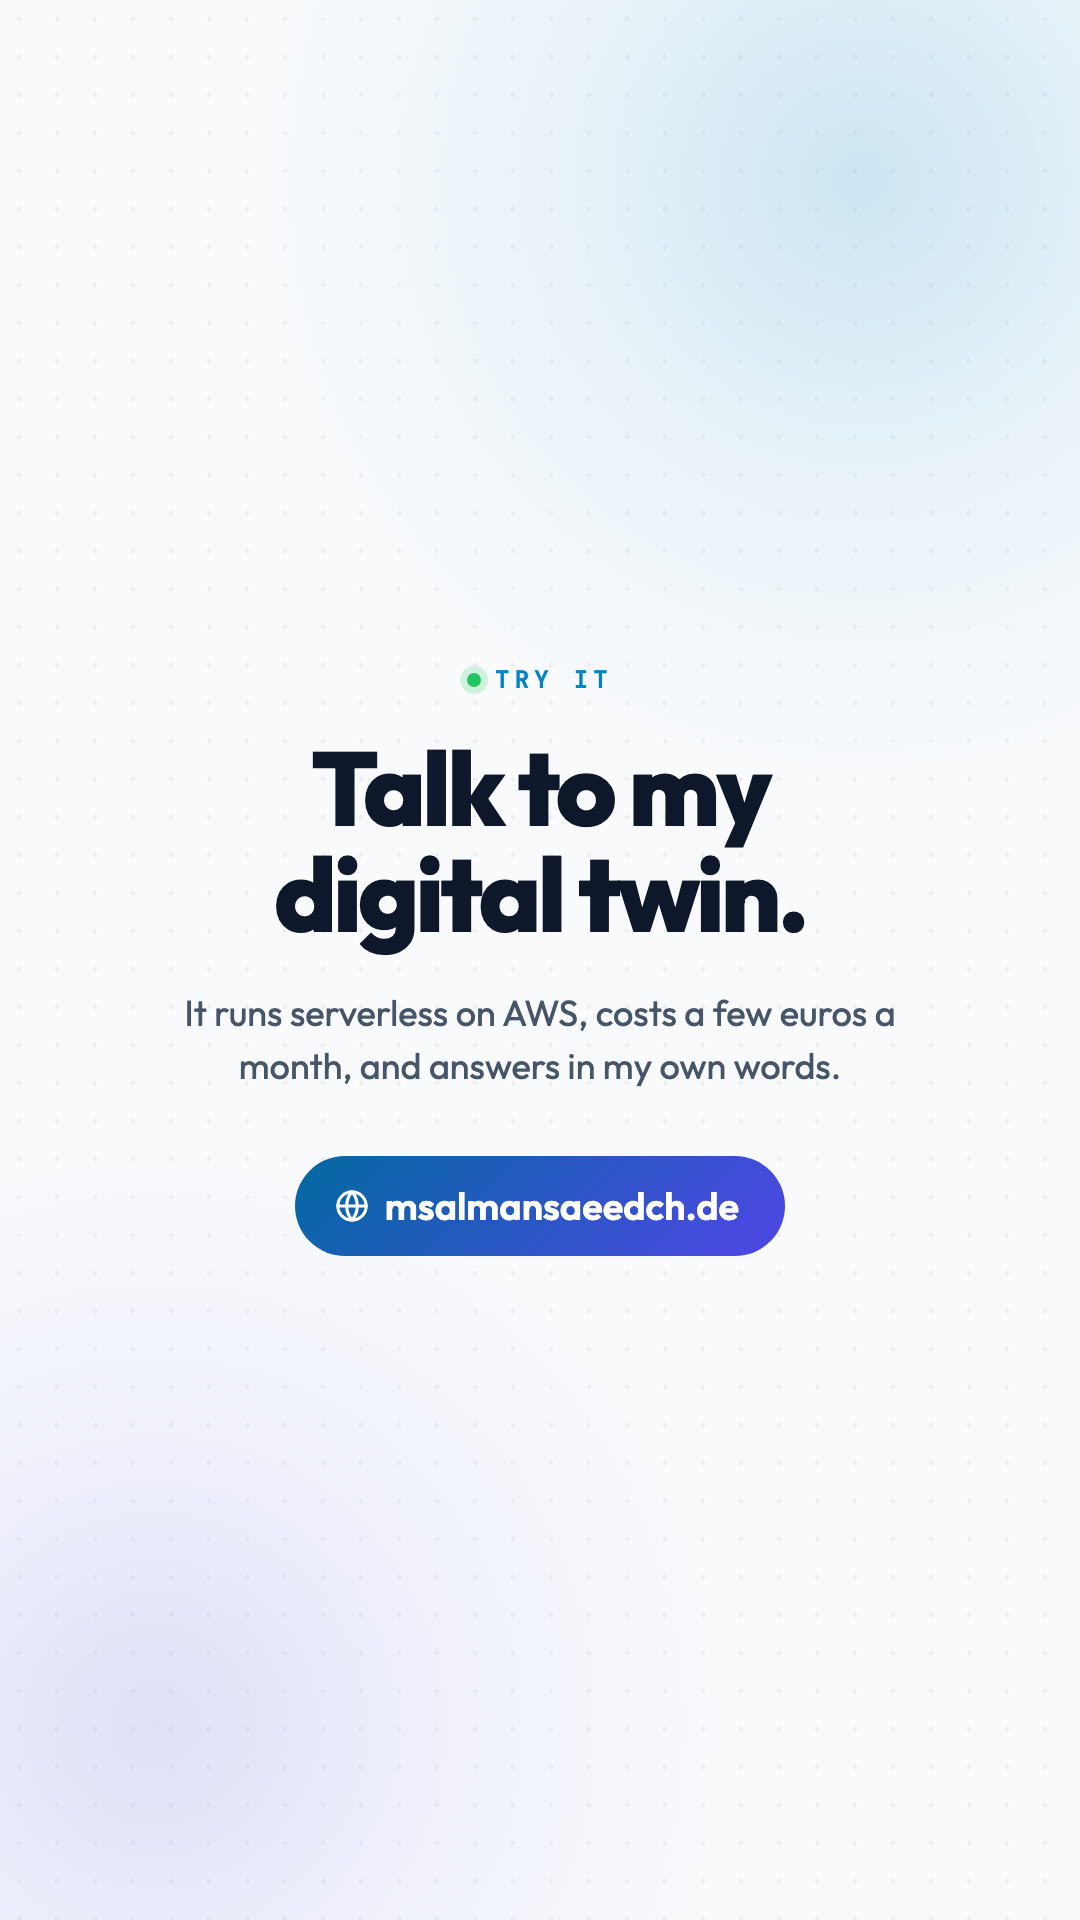
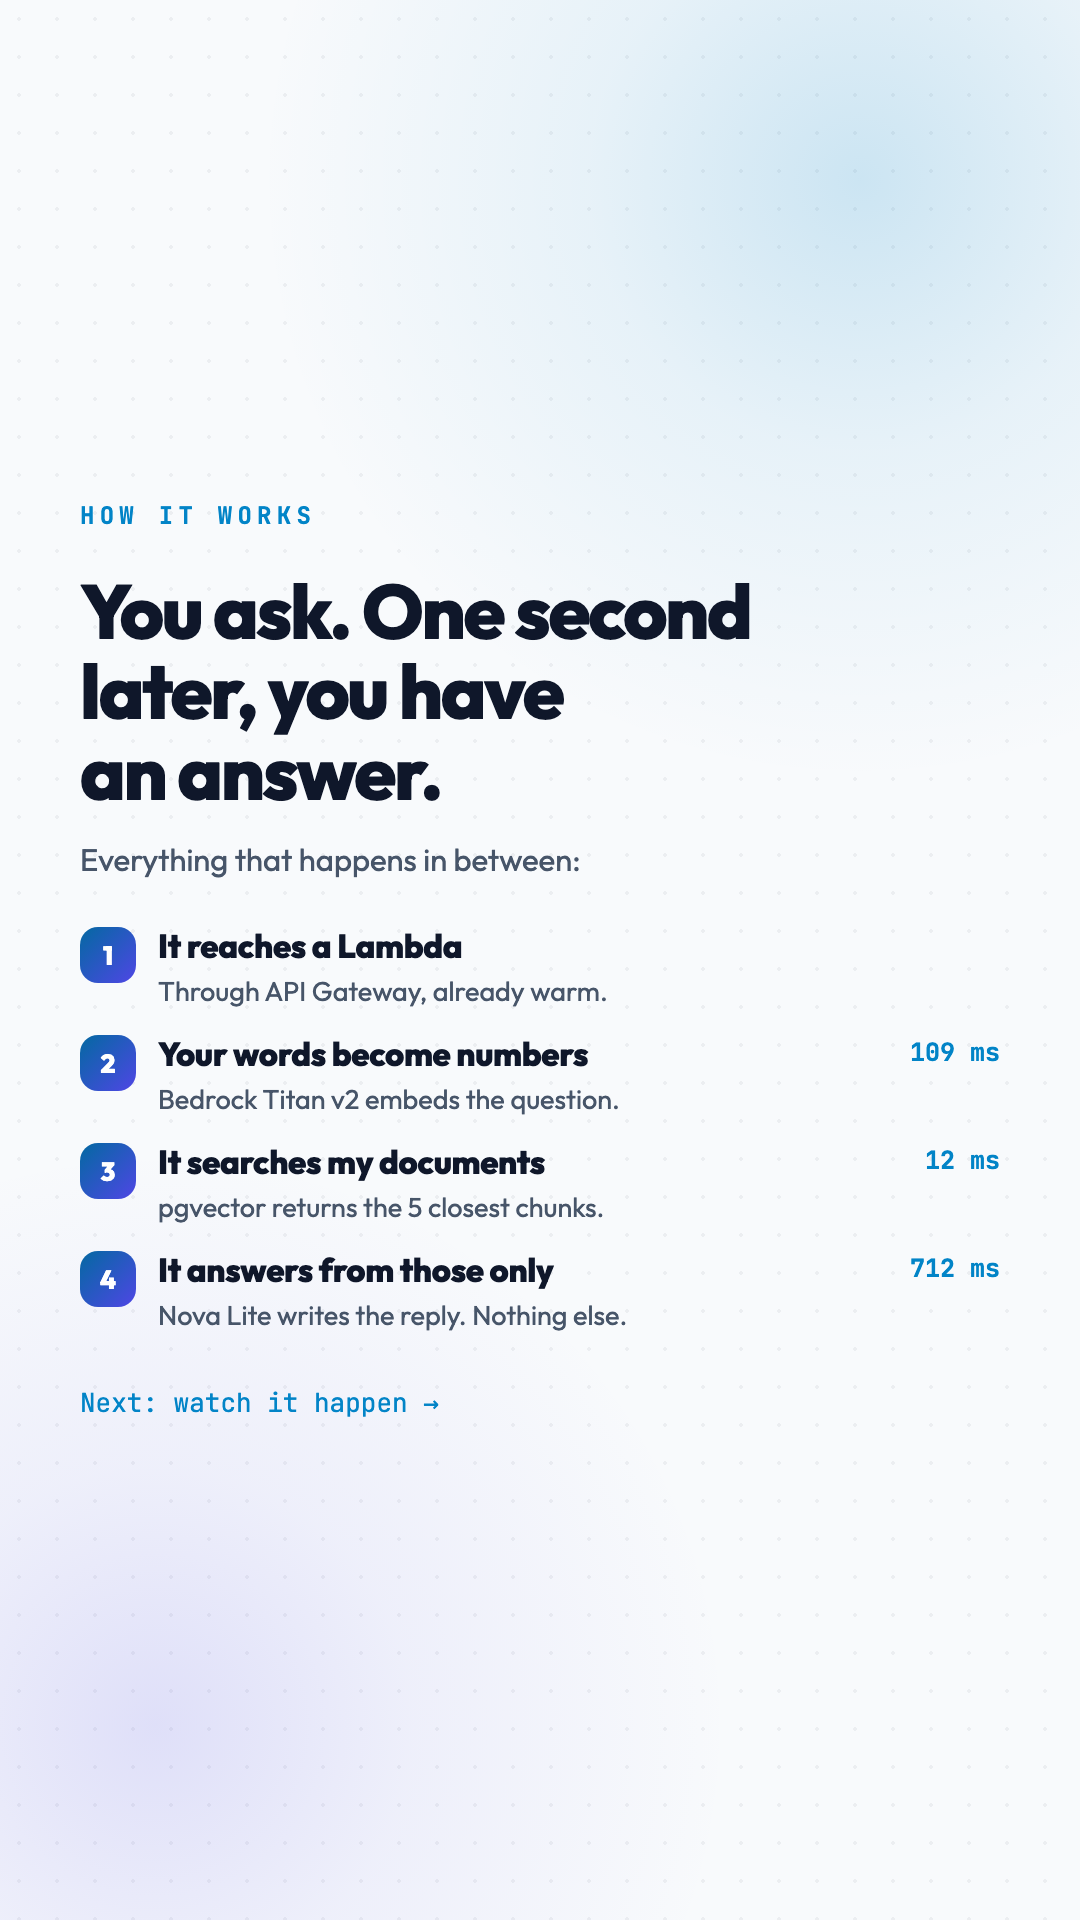
docs: add a how-it-works story frame ahead of the explainer video
Sets up the journey video rather than repeating it: names the four steps
in plain language, carries the measured timings, and ends on "next: watch
it happen" so the run reads as a sequence.

Slots in before the CTA, so the frame count and both themes come out of
the existing generator with no script change.

diff --git a/scripts/stories.html b/scripts/stories.html
@@ -127,6 +127,25 @@
   .a b{font-weight:700;color:var(--text-primary)}
   .a span{color:var(--text-secondary)}
 
+  /* how-it-works steps */
+  .steps{margin-top:44px;display:flex;flex-direction:column;gap:26px}
+  .st{display:flex;gap:22px;align-items:flex-start}
+  .st .n{
+    flex:none;width:56px;height:56px;border-radius:18px;background:var(--cta);
+    color:var(--on-accent);font-size:26px;font-weight:700;
+    display:flex;align-items:center;justify-content:center;
+  }
+  .st h3{font-size:33px;font-weight:700;letter-spacing:-.01em;line-height:1.2}
+  .st p{margin-top:6px;font-size:27px;line-height:1.35;color:var(--text-secondary)}
+  .st .t{
+    font-family:'JetBrains Mono',monospace;font-size:25px;font-weight:700;
+    color:var(--neon-cyan);margin-left:auto;flex:none;padding-left:14px;
+  }
+  .next{
+    margin-top:52px;font-family:'JetBrains Mono',monospace;font-size:26px;
+    color:var(--neon-cyan);
+  }
+
   /* architecture card */
   .diagram{
     background:#fff;border-radius:32px;padding:26px;
@@ -201,7 +220,36 @@
   </div>
 </div>
 
-<!-- ===== 4. CTA ===== -->
+<!-- ===== 4. HOW IT WORKS (leads into the explainer video) ===== -->
+<div class="story">
+  <div class="orb orb-a"></div><div class="orb orb-b"></div>
+  <div class="safe">
+    <div class="eyebrow">How it works</div>
+    <h2>You ask. One second<br>later, you have<br>an answer.</h2>
+    <div class="lede" style="margin-top:26px;font-size:31px">Everything that
+      happens in between:</div>
+    <div class="steps">
+      <div class="st"><div class="n">1</div>
+        <div><h3>It reaches a Lambda</h3>
+          <p>Through API Gateway, already warm.</p></div></div>
+      <div class="st"><div class="n">2</div>
+        <div><h3>Your words become numbers</h3>
+          <p>Bedrock Titan v2 embeds the question.</p></div>
+        <div class="t">109 ms</div></div>
+      <div class="st"><div class="n">3</div>
+        <div><h3>It searches my documents</h3>
+          <p>pgvector returns the 5 closest chunks.</p></div>
+        <div class="t">12 ms</div></div>
+      <div class="st"><div class="n">4</div>
+        <div><h3>It answers from those only</h3>
+          <p>Nova Lite writes the reply. Nothing else.</p></div>
+        <div class="t">712 ms</div></div>
+    </div>
+    <div class="next">Next: watch it happen &rarr;</div>
+  </div>
+</div>
+
+<!-- ===== 5. CTA ===== -->
 <div class="story">
   <div class="orb orb-a"></div><div class="orb orb-b"></div>
   <div class="safe center">
